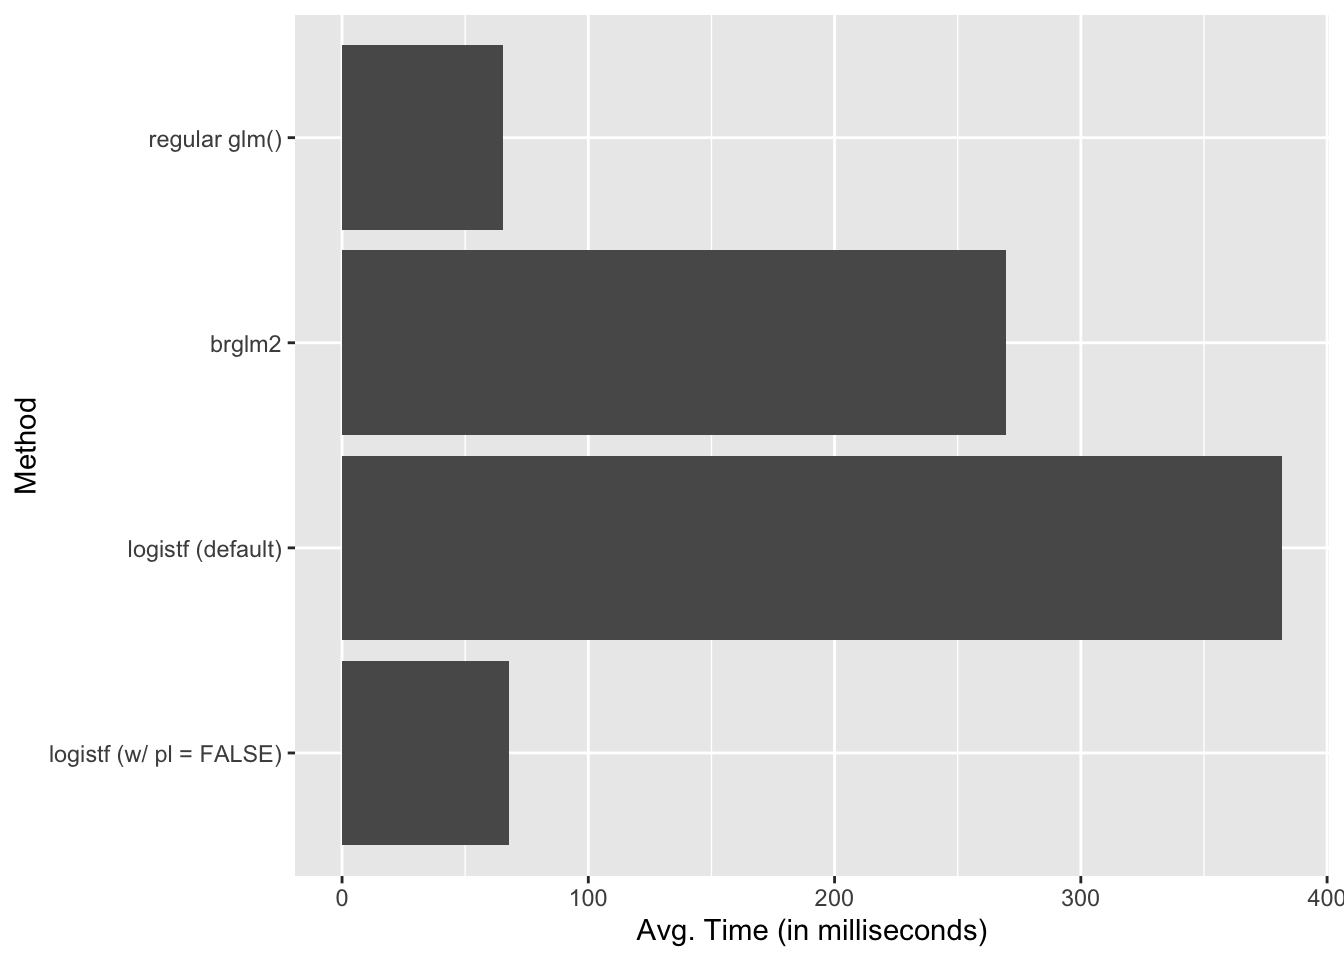
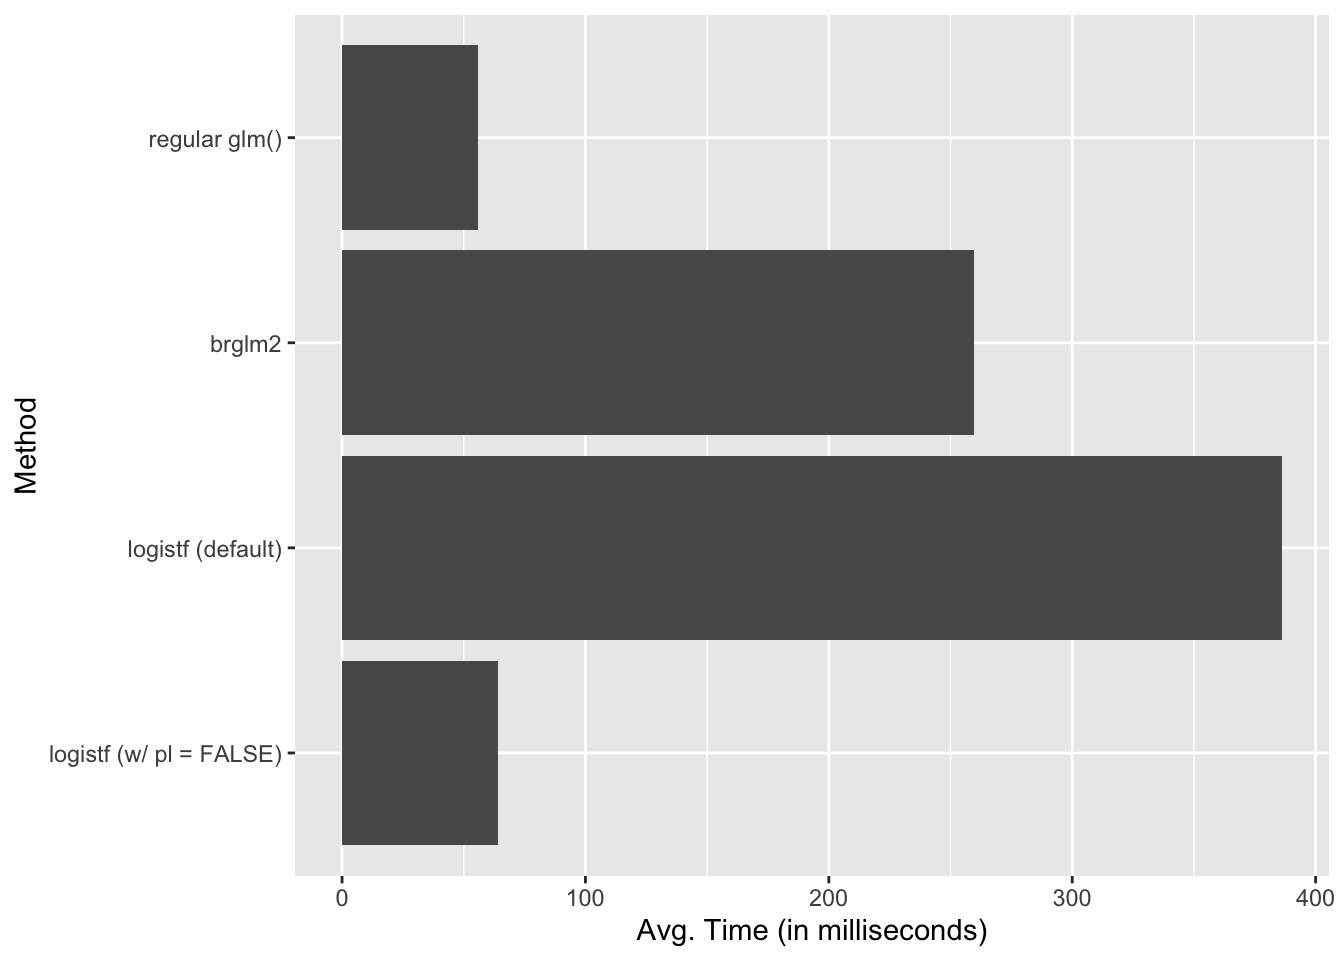
Update benchmarking post

diff --git a/docs/blog/2023-06-01-teaching-confidence-intervals-with-gganimate/index.html b/docs/blog/2023-06-01-teaching-confidence-intervals-with-gganimate/index.html
@@ -429,15 +429,15 @@ gtag('config', 'G-F57WQLHH67', { 'anonymize_ip': true});
 <dl class="code-annotation-container-hidden code-annotation-container-grid">
 <dt data-target-cell="annotated-cell-4" data-target-annotation="1">1</dt>
 <dd>
-<span data-code-cell="annotated-cell-4" data-code-annotation="1" data-code-lines="2">Use dataset with <code>group</code> variable.</span>
+<span data-code-cell="annotated-cell-4" data-code-lines="2" data-code-annotation="1">Use dataset with <code>group</code> variable.</span>
 </dd>
 <dt data-target-cell="annotated-cell-4" data-target-annotation="2">2</dt>
 <dd>
-<span data-code-cell="annotated-cell-4" data-code-annotation="2" data-code-lines="7">Set <code>group</code> explicitly.</span>
+<span data-code-cell="annotated-cell-4" data-code-lines="7" data-code-annotation="2">Set <code>group</code> explicitly.</span>
 </dd>
 <dt data-target-cell="annotated-cell-4" data-target-annotation="3">3</dt>
 <dd>
-<span data-code-cell="annotated-cell-4" data-code-annotation="3" data-code-lines="30,31">Expand x- and y-axis.</span>
+<span data-code-cell="annotated-cell-4" data-code-lines="30,31" data-code-annotation="3">Expand x- and y-axis.</span>
 </dd>
 </dl>
 </div>
@@ -469,35 +469,35 @@ gtag('config', 'G-F57WQLHH67', { 'anonymize_ip': true});
 <dl class="code-annotation-container-hidden code-annotation-container-grid">
 <dt data-target-cell="annotated-cell-5" data-target-annotation="1">1</dt>
 <dd>
-<span data-code-cell="annotated-cell-5" data-code-annotation="1" data-code-lines="2">‘gg’ is created earlier. It’s the plot we want to make dynamic.</span>
+<span data-code-cell="annotated-cell-5" data-code-lines="2" data-code-annotation="1">‘gg’ is created earlier. It’s the plot we want to make dynamic.</span>
 </dd>
 <dt data-target-cell="annotated-cell-5" data-target-annotation="2">2</dt>
 <dd>
-<span data-code-cell="annotated-cell-5" data-code-annotation="2" data-code-lines="3">The <code>transition_states()</code> function from gganimate creates an animation transitioning between different states of the data. In this case, the argument <code>states</code> is set to <code>group</code>. This makes each <code>group</code> (each row in the data frame <code>animate_data</code>) appear in the plot, one at a time.</span>
+<span data-code-cell="annotated-cell-5" data-code-lines="3" data-code-annotation="2">The <code>transition_states()</code> function from gganimate creates an animation transitioning between different states of the data. In this case, the argument <code>states</code> is set to <code>group</code>. This makes each <code>group</code> (each row in the data frame <code>animate_data</code>) appear in the plot, one at a time.</span>
 </dd>
 <dt data-target-cell="annotated-cell-5" data-target-annotation="3">3</dt>
 <dd>
-<span data-code-cell="annotated-cell-5" data-code-annotation="3" data-code-lines="5">The <code>enter_drift()</code> function describes how new data points enter the frame. <code>x_mod = 2</code> makes new data enter by drifting along the x-axis 2 points from the right of their ending position.</span>
+<span data-code-cell="annotated-cell-5" data-code-lines="5" data-code-annotation="3">The <code>enter_drift()</code> function describes how new data points enter the frame. <code>x_mod = 2</code> makes new data enter by drifting along the x-axis 2 points from the right of their ending position.</span>
 </dd>
 <dt data-target-cell="annotated-cell-5" data-target-annotation="4">4</dt>
 <dd>
-<span data-code-cell="annotated-cell-5" data-code-annotation="4" data-code-lines="6">The <code>enter_grow()</code> function describes how new data points enter the frame. In this case, it makes them will grow from a size of 0 to their ending size.</span>
+<span data-code-cell="annotated-cell-5" data-code-lines="6" data-code-annotation="4">The <code>enter_grow()</code> function describes how new data points enter the frame. In this case, it makes them will grow from a size of 0 to their ending size.</span>
 </dd>
 <dt data-target-cell="annotated-cell-5" data-target-annotation="5">5</dt>
 <dd>
-<span data-code-cell="annotated-cell-5" data-code-annotation="5" data-code-lines="7">The <code>enter_recolor()</code> function again describes how new data points should enter the frame. Here, it makes the points and CIs change the color from black to their ending color as they appear. I want the final color to be a bit of a surprise, so I start them as black.</span>
+<span data-code-cell="annotated-cell-5" data-code-lines="7" data-code-annotation="5">The <code>enter_recolor()</code> function again describes how new data points should enter the frame. Here, it makes the points and CIs change the color from black to their ending color as they appear. I want the final color to be a bit of a surprise, so I start them as black.</span>
 </dd>
 <dt data-target-cell="annotated-cell-5" data-target-annotation="6">6</dt>
 <dd>
-<span data-code-cell="annotated-cell-5" data-code-annotation="6" data-code-lines="8">The <code>ease_aes()</code> function determines how the aesthetics of the points change over the transitions. <code>color = "exponential-in"</code> means the color change will be at an exponential rate at the start of the transition. This makes the color change really fast at the end of the transition to maintain the surprise of the result.</span>
+<span data-code-cell="annotated-cell-5" data-code-lines="8" data-code-annotation="6">The <code>ease_aes()</code> function determines how the aesthetics of the points change over the transitions. <code>color = "exponential-in"</code> means the color change will be at an exponential rate at the start of the transition. This makes the color change really fast at the end of the transition to maintain the surprise of the result.</span>
 </dd>
 <dt data-target-cell="annotated-cell-5" data-target-annotation="7">7</dt>
 <dd>
-<span data-code-cell="annotated-cell-5" data-code-annotation="7" data-code-lines="10">The <code>exit_fade()</code> function describes how data points leave the frame. <code>alpha = 0.3</code> specifies that points will fade out to 30% transparency when they exit (when the next data point reaches its position).</span>
+<span data-code-cell="annotated-cell-5" data-code-lines="10" data-code-annotation="7">The <code>exit_fade()</code> function describes how data points leave the frame. <code>alpha = 0.3</code> specifies that points will fade out to 30% transparency when they exit (when the next data point reaches its position).</span>
 </dd>
 <dt data-target-cell="annotated-cell-5" data-target-annotation="8">8</dt>
 <dd>
-<span data-code-cell="annotated-cell-5" data-code-annotation="8" data-code-lines="11"><code>shadow_mark()</code> function keeps past data points in the frame. <code>alpha = 0.3</code> sets the transparency of the shadow marks to 30% to match the <code>exit_fade()</code> transparency.</span>
+<span data-code-cell="annotated-cell-5" data-code-lines="11" data-code-annotation="8"><code>shadow_mark()</code> function keeps past data points in the frame. <code>alpha = 0.3</code> sets the transparency of the shadow marks to 30% to match the <code>exit_fade()</code> transparency.</span>
 </dd>
 </dl>
 </div>

diff --git a/docs/blog/2023-08-11-benchmarking-firth/index.html b/docs/blog/2023-08-11-benchmarking-firth/index.html
@@ -135,11 +135,11 @@ gtag('config', 'G-F57WQLHH67', { 'anonymize_ip': true});
 <meta property="og:image:width" content="1344">
 <meta name="twitter:title" content="Carlisle Rainey - Benchmarking Firth’s Logit: {brglm2} versus {logistf}">
 <meta name="twitter:description" content="In this post, I benchmark the brglm2 and logistf packages for fitting logistic regression models with Firth’s penalty.">
-<meta name="twitter:image" content="https://www.carlislerainey.com/profile.png">
+<meta name="twitter:image" content="https://www.carlislerainey.com/profile-tw.png">
 <meta name="twitter:creator" content="@carlislerainey">
 <meta name="twitter:card" content="summary">
-<meta name="twitter:image-height" content="2304">
-<meta name="twitter:image-width" content="3456">
+<meta name="twitter:image-height" content="533">
+<meta name="twitter:image-width" content="800">
 </head>
 
 <body class="nav-fixed fullcontent">
@@ -313,16 +313,16 @@ overflows</code></pre>
 <div class="sourceCode cell-code" id="cb3"><pre class="sourceCode r code-with-copy"><code class="sourceCode r"><span id="cb3-1"><a href="#cb3-1" aria-hidden="true" tabindex="-1"></a><span class="fu">print</span>(bm)</span></code><button title="Copy to Clipboard" class="code-copy-button"><i class="bi"></i></button></pre></div>
 <div class="cell-output cell-output-stdout">
 <pre><code>Unit: microseconds
-                    expr      min        lq      mean    median        uq
-           regular glm()  502.660  542.1020  654.0119  564.7135  601.9005
-                  brglm2 2421.788 2523.7960 2694.9931 2602.0650 2760.3865
-       logistf (default) 3240.599 3393.3035 3818.3890 3518.1075 3641.0665
- logistf (w/ pl = FALSE)  520.618  556.8825  679.3175  576.2960  605.4880
+                    expr      min       lq      mean    median        uq
+           regular glm()  500.446  536.198  559.1264  548.6005  566.9685
+                  brglm2 2412.768 2489.520 2598.0650 2528.2445 2574.1440
+       logistf (default) 3291.152 3366.162 3863.3787 3414.3775 3497.4230
+ logistf (w/ pl = FALSE)  522.668  549.605  639.5291  563.2170  578.5920
        max neval
-  8208.364   100
-  8241.246   100
- 12907.210   100
-  8468.099   100</code></pre>
+  1056.980   100
+  7455.153   100
+ 12975.434   100
+  7377.663   100</code></pre>
 </div>
 </div>
 <p>In short, logistf is slower than brglm2, but only because it computes the profile likelihood <em>p</em>-values by default. Once we skip those calculations using <code>pl = FALSE</code>, logistf is <em>much</em> faster. On average, it’s faster than <code>glm()</code>, because <code>glm()</code> has the occasional <em>really</em> slow computation.</p>

diff --git a/docs/blog/index.html b/docs/blog/index.html
@@ -236,7 +236,7 @@ Reading Time
 </tr>
 </thead>
 <tbody class="list">
-<tr data-index="0" data-categories="logistic regression,small samples,Firth,computing,R" data-listing-date-sort="1691726400000" data-listing-file-modified-sort="1691864302664" data-listing-date-modified-sort="NaN" data-listing-reading-time-sort="4" data-listing-title-sort="Benchmarking Firth's Logit: {brglm2} versus {logistf}" data-listing-filename-sort="index.qmd">
+<tr data-index="0" data-categories="logistic regression,small samples,Firth,computing,R" data-listing-date-sort="1691726400000" data-listing-file-modified-sort="1691864652970" data-listing-date-modified-sort="NaN" data-listing-reading-time-sort="4" data-listing-title-sort="Benchmarking Firth's Logit: {brglm2} versus {logistf}" data-listing-filename-sort="index.qmd">
 <td>
 <span class="listing-date">Aug 11, 2023</span>
 </td>
